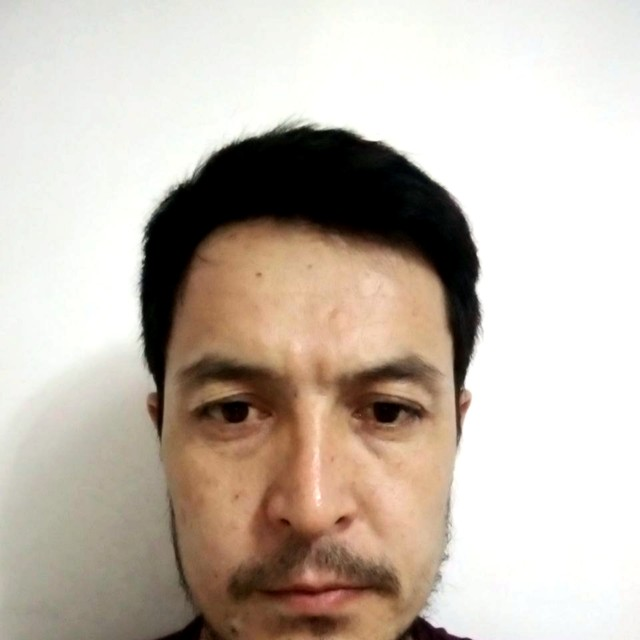
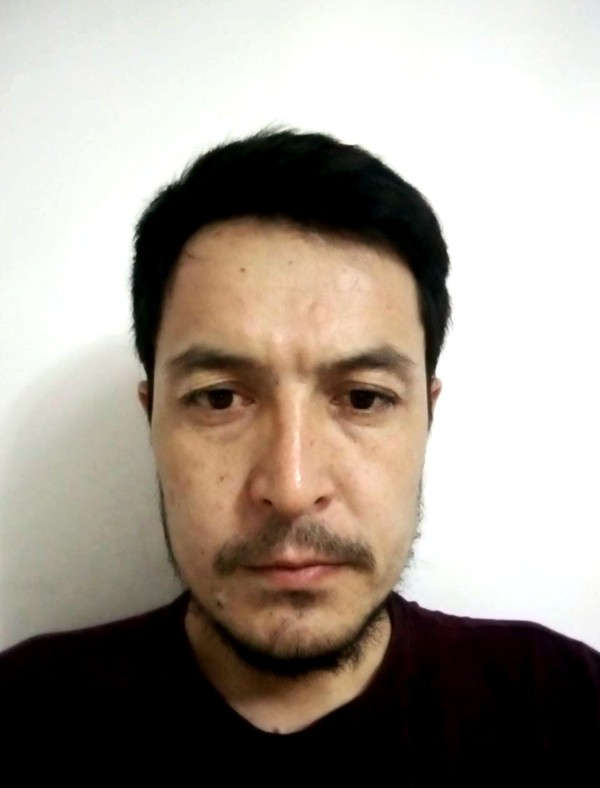
Enlarge hero photo to show shoulders/torso; widen container

diff --git a/index.html b/index.html
@@ -37,7 +37,7 @@
   }
   a{ color: inherit; }
   .container{
-    max-width: 920px;
+    max-width: 1100px;
     margin: 0 auto;
     padding: 0 24px;
   }
@@ -56,7 +56,7 @@
     align-items:center;
     justify-content: space-between;
     padding: 16px 24px;
-    max-width: 920px;
+    max-width: 1100px;
     margin: 0 auto;
   }
   .logo{
@@ -175,9 +175,9 @@
   .hero-text .hero-actions{ margin-bottom: 0; }
   .hero-photo{
     flex-shrink: 0;
-    width: 168px;
-    height: 168px;
-    border-radius: 16px;
+    width: 260px;
+    aspect-ratio: 3 / 4;
+    border-radius: 18px;
     overflow: hidden;
     border: 1px solid var(--border);
     box-shadow: 0 24px 48px -24px rgba(0,0,0,0.6), 0 0 0 4px rgba(79,209,197,0.08);
@@ -186,11 +186,12 @@
     width: 100%;
     height: 100%;
     object-fit: cover;
+    object-position: top center;
     display: block;
   }
   @media (max-width: 640px){
     .hero-top{ flex-direction: column-reverse; align-items: flex-start; gap: 24px; }
-    .hero-photo{ width: 120px; height: 120px; }
+    .hero-photo{ width: 190px; }
   }
 
   /* -------- terminal -------- */